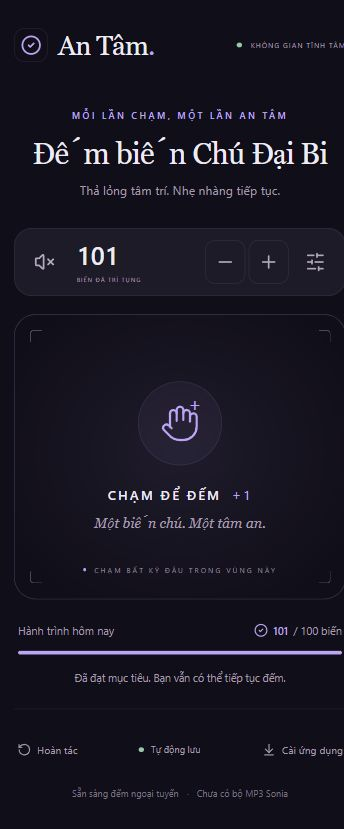
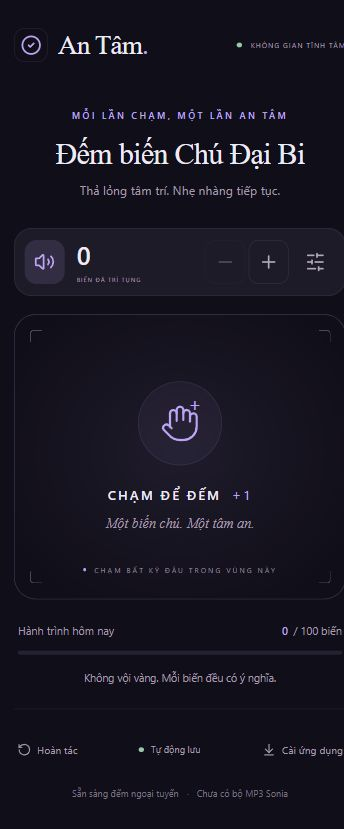
Use Vietnamese-compatible serif font on mobile

diff --git a/src/styles.css b/src/styles.css
@@ -87,7 +87,7 @@ a {
   display: flex;
   align-items: center;
   gap: 10px;
-  font-family: Georgia, serif;
+  font-family: "Times New Roman", serif;
   font-size: 27px;
   letter-spacing: -0.8px;
 }
@@ -130,7 +130,7 @@ a {
   font-weight: 600;
 }
 .intro h1 {
-  font-family: Georgia, "Times New Roman", serif;
+  font-family: "Times New Roman", serif;
   font-weight: 400;
   font-size: 2.15em;
   letter-spacing: -0.7px;
@@ -264,7 +264,7 @@ a {
   margin-left: 5px;
 }
 .pad-subtitle {
-  font-family: Georgia, serif;
+  font-family: "Times New Roman", serif;
   font-style: italic;
   color: var(--muted);
   font-size: 1em;
@@ -428,7 +428,7 @@ a {
   border-bottom: 1px solid var(--line);
 }
 h2 {
-  font-family: Georgia, serif;
+  font-family: "Times New Roman", serif;
   font-weight: 400;
   font-size: 1.8em;
   margin: 8px 0 0;
@@ -539,7 +539,7 @@ h2 {
   border-radius: 50%;
   display: grid;
   place-items: center;
-  font-family: Georgia, serif;
+  font-family: "Times New Roman", serif;
 }
 .badge {
   font-size: 9px;
